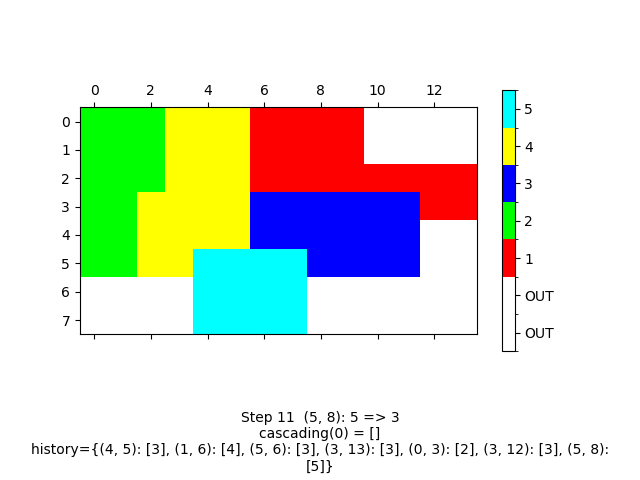
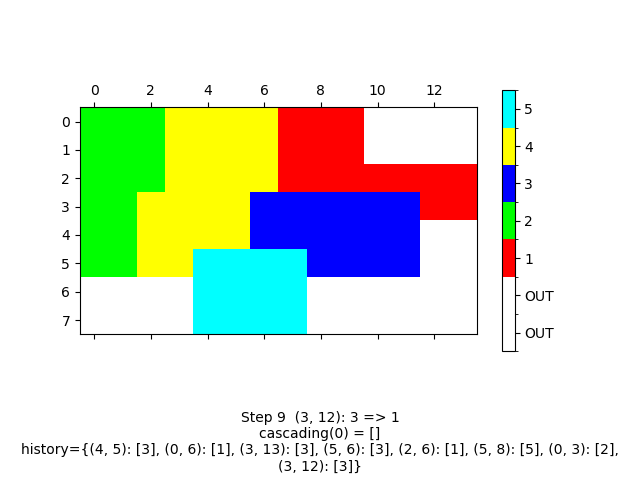
fihished simplied todo: code recorganizing

Changed region(s): [[0.0312, 0.8438, 0.9688, 1.0], [0.375, 0.2188, 0.4375, 0.4062], [0.5938, 0.8438, 0.625, 0.875]]

diff --git a/cell_variation.py b/cell_variation.py
@@ -597,6 +597,39 @@ def is_valid_change(floorplan, cell, new_room, changed_cell_history):
         floorplan[cell] = old_room
         return False
 
+
+def count_cascading_cells_neighbors(floorplan, cell, old_room, new_room_number):
+    # 변경전 당연히 cascading
+    neighbors = all_active_neighbors(cell, floorplan)
+    cascading_neighbors = [n for n in neighbors if is_cascading_cell_simple(floorplan, n)]
+    old_cascading_count = len(cascading_neighbors) + 1
+
+    floorplan[cell] = new_room_number # 변경 후
+    new_cell_cascading = is_cascading_cell_simple(floorplan,cell)
+    new_cascading_neighbors = [n for n in neighbors if is_cascading_cell_simple(floorplan, n)]
+    new_cascading_count = len(new_cascading_neighbors) + 1 if new_cell_cascading else len(new_cascading_neighbors)
+
+    # revert
+    floorplan[cell] = old_room
+    return old_cascading_count - new_cascading_count
+
+def update_cascading(floorplan,cell,neighbors, cascading_cells_list, cascading_cells):
+    if not is_cascading_cell_simple(floorplan, cell):
+        if cell in cascading_cells_list:
+            cascading_cells_list.remove(cell)
+            cascading_cells[cell] = 0
+
+    for neighbor in neighbors:
+        if is_cascading_cell_simple(floorplan, neighbor):
+            if neighbor not in cascading_cells_list:
+                cascading_cells_list.append(neighbor)
+                cascading_cells[neighbor] = 1
+        else:
+            if neighbor in cascading_cells_list:
+                cascading_cells_list.remove(neighbor)
+                cascading_cells[neighbor] = 0
+
+
 def exchange_protruding_cells(floorplan, iteration=1):
     cascading_cells = create_cascading_cells(floorplan)
     changed_cell_history={}
@@ -604,18 +637,21 @@ def exchange_protruding_cells(floorplan, iteration=1):
         return
 
     cascading_cells_list = list(map(tuple, np.argwhere(cascading_cells == 1)))
+    candidate_cascading_cells_list = cascading_cells_list.copy()
     i = 0
     # todo 무한루프 해결
 
+    # while len(candidate_cascading_cells_list) > 0: # todo 1. 0731 to see candidate_cascading_cell_list => cascading_cell_list
     while len(cascading_cells_list) > 0:
         i += 1
-        cell = random.choice(cascading_cells_list)
+        # cell = random.choice(candidate_cascading_cells_list) ## todo 2. 0731 to see candidate_cascading_cell_list => cascading_cell_list
+        cell = random.choice(cascading_cells_list) #
         current_room_number = floorplan[cell]
         neighbors = all_active_neighbors(cell, floorplan) # 선택된 셀의 neighbors들 중에서 선택
         neighbors_room_to_exchange = list(set([ floorplan[n] for n in neighbors if floorplan[n] != current_room_number])) # 같은 방 제외
         # filtering1: 네이버 room들 중에서 다른 방 선택
         candidate_rooms = [room for room in neighbors_room_to_exchange]
-        print(f'Step [{i} ]Cell [{cell}]: candidate_room before filtering changed history: {candidate_rooms}')
+        print(f'Step [{i}] Cell [{cell}]: from {candidate_cascading_cells_list} before filtering changed history: candidate_rooms= {candidate_rooms}')
         if cell in changed_cell_history: # filtering more
             candidate_rooms = [room for room in candidate_rooms if room not in changed_cell_history[cell]]
         print(f'\tCell [{cell}]: candidate_room after filtering changed history: {candidate_rooms}')
@@ -623,22 +659,57 @@ def exchange_protruding_cells(floorplan, iteration=1):
         # 교환하자.
         # candidate_rooms가 success하거나 없어질 때까지 새 방을 고른다. todo candidate_rooms는 never 몽땅 없어지지 않는다. 그러므로 while에서 무한루프를 돈다. 무엇이 stop시킬 수 있는지를 고민해보자. 아마도 changed_cell_history에서 더이상 가져올 게 없을 때를 보는 게 맞는 거 같다.
         w = 0
-        while len(candidate_rooms) > 0 :
-            w+=1
-            print(f'[debugging] while loop iteration {w}')
-            new_room_number = random.choice(candidate_rooms)
-            if is_better_change(floorplan, cell, new_room_number) and is_valid_change(floorplan, cell, new_room_number, changed_cell_history): # 교환했으므로  while문을 빠져나온다.
-                update_cascading_cells_array(floorplan, cascading_cells, cell)
-                cascading_cells_list = list(map(tuple, np.argwhere(cascading_cells == 1)))
-                text = f'Step {i}  {cell}: {current_room_number} => {new_room_number}\nhistory={changed_cell_history}\ncascading({len(cascading_cells_list)}) = {cascading_cells_list}'
-                print(f'Step {i} exchange {cell} to Room{new_room_number}...\ncascading_cell_list={cascading_cells_list}\nchanged_cell_history({len(changed_cell_history)}) = {changed_cell_history}')
-                break
-            else:
-                candidate_rooms.remove(new_room_number) # valid 하지 않으므로 지우고 다른 걸 선택한다.
-                text = f'Step {i} Failed to change {cell} from {current_room_number} to {new_room_number}'
+        if len(candidate_rooms) == 0:
+            # candidate_cascading_cells_list.remove(cell)
+            cascading_cells_list.remove(cell) ## todo 3. 0731 to see candidate_cascading_cell_list => cascading_cell_list
+            continue # []빈 candidate_room을 가졌으므로 candidatae_cascading_cell_list도 업데이트해야 됨
+        elif len(candidate_rooms) > 1:
+            best_room = candidate_rooms[0]
+            gap = count_cascading_cells_neighbors(floorplan, cell, current_room_number, best_room)
+
+            for it in range(len(candidate_rooms)-1):
+                gap2 = count_cascading_cells_neighbors(floorplan, cell, current_room_number, candidate_rooms[it+1])
+                if gap < gap2:
+                    best_room = candidate_rooms[it+1]
+        elif len(candidate_rooms) == 1:
+            best_room = candidate_rooms[0]
+        if is_valid_change(floorplan, cell, best_room, changed_cell_history): # 성공했다면
+            update_cascading(floorplan,cell, neighbors, cascading_cells_list, cascading_cells)
+            # candidate_cascading_cells_list.remove(cell)
+            text = (f'Step {i}  {cell}: {current_room_number} => {best_room}\nhistory={changed_cell_history}\n'
+                    f'cascading({len(cascading_cells_list)}) = {cascading_cells_list}')
+        else:
+            candidate_rooms.remove(best_room)  # valid 하지 않으므로 지우고 다른 걸 선택한다.
+            text = (f'Step {i} Failed to change {cell} from {current_room_number} to {best_room}\n'
+                    f'becuase ( {cell} to {best_room}) is not valid')
+
+# todo logic  변경했음
+#        while len(candidate_rooms) > 0 :
+#            w+=1
+#            print(f'[debugging] while loop iteration {w}')
+#            new_room_number = random.choice(candidate_rooms)
+#            # candidate_rooms에서 new_room_number가 제거되었으므로 똑같은 것을 뽑을 리가 없구만 위에서 똑같은 셀을 뽑지 못하게 해야겠군
+#            better = is_better_change(floorplan, cell, new_room_number)
+#            valid_change = is_valid_change(floorplan, cell, new_room_number, changed_cell_history)
+#            if better  and valid_change: # 교환했으므로  while문을 빠져나온다.
+#                # update_cascading_cells_array(floorplan, cascading_cells, cell)#todo cascading_cells를 update안했기 때문에 변하지 않은 것을 가지고 업데이트한다. done
+#                update_cascading(floorplan, cell, neighbors, cascading_cells_list, cascading_cells)
+#                candidate_cascading_cells_list.remove(cell)
+#                # todo candidate_cascading_cell_list로 판단하는데. 이것을 어떻게 해야 되나
+#                text = f'Step {i}  {cell}: {current_room_number} => {new_room_number}\nhistory={changed_cell_history}\ncascading({len(cascading_cells_list)}) = {cascading_cells_list}'
+#                print(f'Step {i} exchange {cell} to Room{new_room_number}...\ncascading_cell_list={cascading_cells_list}\nchanged_cell_history({len(changed_cell_history)}) = {changed_cell_history}')
+#                break
+#            else:
+#                candidate_rooms.remove(new_room_number) # valid 하지 않으므로 지우고 다른 걸 선택한다.
+#                if len(candidate_rooms) == 0: # candidate_room 이 없으면
+#                    candidate_cascading_cells_list.remove(cell)
+#                text = (f'Step {i} Failed to change {cell} from {current_room_number} to {new_room_number}\n'
+#                        f'becuase either is_better_change( {cell} to {new_room_number})is {better} or\n'
+#                        f'is_valid_change is {valid_change}')
+
         grid_print_as_int(cascading_cells)
         grid_to_screen_image(floorplan,text = text)
-        if i > 10:
+        if i > 20:
             break
 
 def create_cascading_cells(floorplan):
